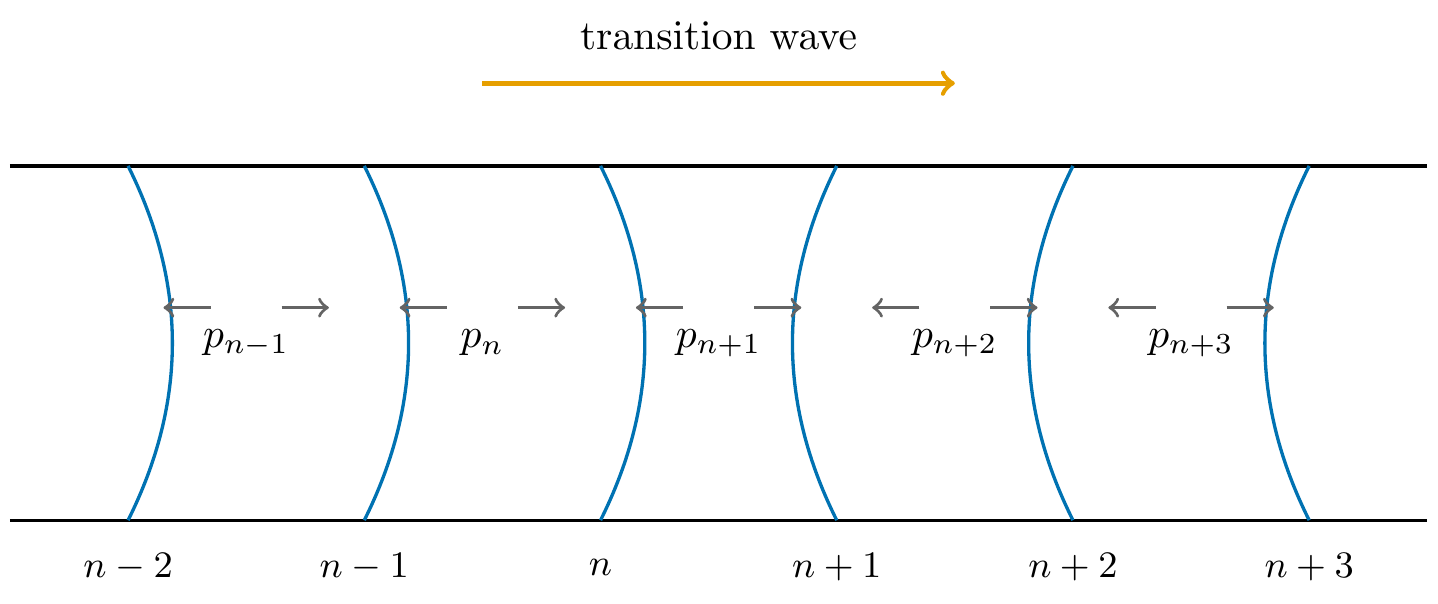
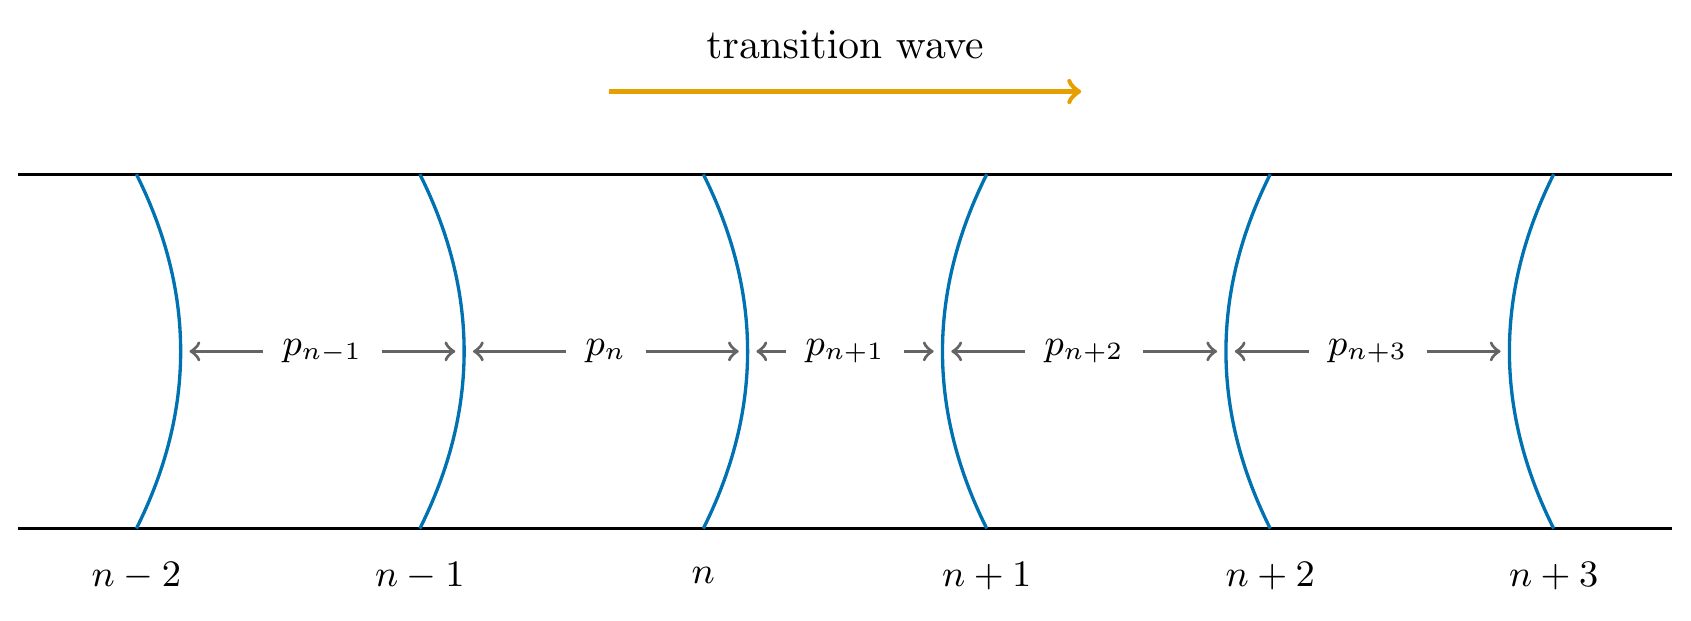
Redraw the schematic so the pressure arrows point at the diaphragms
The arrows sat at y = 0.3, above the labels rather than beside them, so the
pairing read wrong: the right-pointing arrow after p_{n-1} looked like it
belonged to p_n. They also stopped at fixed offsets from each diaphragm's base
rather than at the apex of its curve, so none of them actually met a membrane.

Arrows now run along y = 0 and terminate on the apex, which for a Bezier from
(x, -1.5) with controls at x +/- 0.5 sits at x +/- 0.375. Each label is a named
node and its two arrows leave the node's own anchors, so they cannot overlap the
text however the pocket resizes.

Diaphragm spacing goes 2 -> 2.4 for one reason: pocket n+1 is the compressed one
and at the old spacing had 1.25cm of room, which the label filled entirely,
leaving 2mm stubs for arrows. It now has 1.65cm and is still visibly squeezed at
69% of the others. The picture is 14.3cm wide, inside a 6.3in linewidth at
scale=1.

figure.png regenerated at 300 dpi for the README, which cannot display the PDF.

diff --git a/figures/src/schematic.tex b/figures/src/schematic.tex
@@ -5,6 +5,10 @@
 %   pdflatex schematic.tex
 %   magick -density 300 schematic.pdf -quality 95 ../figure.png
 %
+% or, without ImageMagick:
+%
+%   pdftoppm -r 300 -png -singlefile schematic.pdf ../figure
+%
 \documentclass[tikz,border=4pt]{standalone}
 \usepackage{tikz}
 \usepackage{xcolor}
@@ -16,50 +20,52 @@
 \begin{document}
 \begin{tikzpicture}[scale=1]
     % pipe walls
-    \draw[thick] (0, 1.5) -- (12, 1.5);
-    \draw[thick] (0, -1.5) -- (12, -1.5);
+    \draw[thick] (0, 1.5) -- (14, 1.5);
+    \draw[thick] (0, -1.5) -- (14, -1.5);
 
     % switched diaphragms behind the wave: bent right
-    \draw[thick, wongblue] (1, -1.5) .. controls (1.5, -0.5) and (1.5, 0.5) .. (1, 1.5);
-    \draw[thick, wongblue] (3, -1.5) .. controls (3.5, -0.5) and (3.5, 0.5) .. (3, 1.5);
-    \draw[thick, wongblue] (5, -1.5) .. controls (5.5, -0.5) and (5.5, 0.5) .. (5, 1.5);
+    \draw[thick, wongblue] (1,    -1.5) .. controls (1.5,  -0.5) and (1.5,  0.5) .. (1,    1.5);
+    \draw[thick, wongblue] (3.4,  -1.5) .. controls (3.9,  -0.5) and (3.9,  0.5) .. (3.4,  1.5);
+    \draw[thick, wongblue] (5.8,  -1.5) .. controls (6.3,  -0.5) and (6.3,  0.5) .. (5.8,  1.5);
 
     % unswitched diaphragms ahead of the wave: bent left
-    \draw[thick, wongblue] (7, -1.5) .. controls (6.5, -0.5) and (6.5, 0.5) .. (7, 1.5);
-    \draw[thick, wongblue] (9, -1.5) .. controls (8.5, -0.5) and (8.5, 0.5) .. (9, 1.5);
-    \draw[thick, wongblue] (11, -1.5) .. controls (10.5, -0.5) and (10.5, 0.5) .. (11, 1.5);
+    \draw[thick, wongblue] (8.2,  -1.5) .. controls (7.7,  -0.5) and (7.7,  0.5) .. (8.2,  1.5);
+    \draw[thick, wongblue] (10.6, -1.5) .. controls (10.1, -0.5) and (10.1, 0.5) .. (10.6, 1.5);
+    \draw[thick, wongblue] (13,   -1.5) .. controls (12.5, -0.5) and (12.5, 0.5) .. (13,   1.5);
 
     % diaphragm labels
-    \node at (1, -1.9) {\small $n-2$};
-    \node at (3, -1.9) {\small $n-1$};
-    \node at (5, -1.9) {\small $n$};
-    \node at (7, -1.9) {\small $n+1$};
-    \node at (9, -1.9) {\small $n+2$};
-    \node at (11, -1.9) {\small $n+3$};
+    \node at (1,    -1.9) {\small $n-2$};
+    \node at (3.4,  -1.9) {\small $n-1$};
+    \node at (5.8,  -1.9) {\small $n$};
+    \node at (8.2,  -1.9) {\small $n+1$};
+    \node at (10.6, -1.9) {\small $n+2$};
+    \node at (13,   -1.9) {\small $n+3$};
 
-    % pocket pressures, arrows pushing on both bounding diaphragms
-    \node at (2, 0) {$p_{n-1}$};
-    \draw[->, thick, wonggrey] (1.7, 0.3) -- (1.3, 0.3);
-    \draw[->, thick, wonggrey] (2.3, 0.3) -- (2.7, 0.3);
+    % Pocket pressures on the centreline, each flanked by its own pair of arrows.
+    % A diaphragm drawn from (x, -1.5) with controls at x +/- 0.5 has its apex at
+    % x +/- 0.375, so the pocket between two of them spans apex to apex and the
+    % label sits at that midpoint. Arrows leave the label node's own anchors, so
+    % they cannot run under the text. Pocket n+1 is the compressed one, squeezed
+    % from both sides, and its arrows come out short for that reason.
+    \node[inner sep=1.5pt] (pa) at (2.575, 0) {\small $p_{n-1}$};
+    \node[inner sep=1.5pt] (pb) at (4.975, 0) {\small $p_{n}$};
+    \node[inner sep=1.5pt] (pc) at (7.000, 0) {\small $p_{n+1}$};
+    \node[inner sep=1.5pt] (pd) at (9.025, 0) {\small $p_{n+2}$};
+    \node[inner sep=1.5pt] (pe) at (11.425,0) {\small $p_{n+3}$};
 
-    \node at (4, 0) {$p_n$};
-    \draw[->, thick, wonggrey] (3.7, 0.3) -- (3.3, 0.3);
-    \draw[->, thick, wonggrey] (4.3, 0.3) -- (4.7, 0.3);
-
-    \node at (6, 0) {$p_{n+1}$};
-    \draw[->, thick, wonggrey] (5.7, 0.3) -- (5.3, 0.3);
-    \draw[->, thick, wonggrey] (6.3, 0.3) -- (6.7, 0.3);
-
-    \node at (8, 0) {$p_{n+2}$};
-    \draw[->, thick, wonggrey] (7.7, 0.3) -- (7.3, 0.3);
-    \draw[->, thick, wonggrey] (8.3, 0.3) -- (8.7, 0.3);
-
-    \node at (10, 0) {$p_{n+3}$};
-    \draw[->, thick, wonggrey] (9.7, 0.3) -- (9.3, 0.3);
-    \draw[->, thick, wonggrey] (10.3, 0.3) -- (10.7, 0.3);
+    \draw[->, thick, wonggrey] ([xshift=-3pt]pa.west) -- (1.45,  0);
+    \draw[->, thick, wonggrey] ([xshift=3pt]pa.east)  -- (3.70,  0);
+    \draw[->, thick, wonggrey] ([xshift=-3pt]pb.west) -- (3.85,  0);
+    \draw[->, thick, wonggrey] ([xshift=3pt]pb.east)  -- (6.10,  0);
+    \draw[->, thick, wonggrey] ([xshift=-3pt]pc.west) -- (6.25,  0);
+    \draw[->, thick, wonggrey] ([xshift=3pt]pc.east)  -- (7.75,  0);
+    \draw[->, thick, wonggrey] ([xshift=-3pt]pd.west) -- (7.90,  0);
+    \draw[->, thick, wonggrey] ([xshift=3pt]pd.east)  -- (10.15, 0);
+    \draw[->, thick, wonggrey] ([xshift=-3pt]pe.west) -- (10.30, 0);
+    \draw[->, thick, wonggrey] ([xshift=3pt]pe.east)  -- (12.55, 0);
 
     % direction of travel
-    \draw[->, very thick, wongorange] (4, 2.2) -- (8, 2.2);
-    \node at (6, 2.6) {transition wave};
+    \draw[->, very thick, wongorange] (5, 2.2) -- (9, 2.2);
+    \node at (7, 2.6) {transition wave};
 \end{tikzpicture}
 \end{document}
